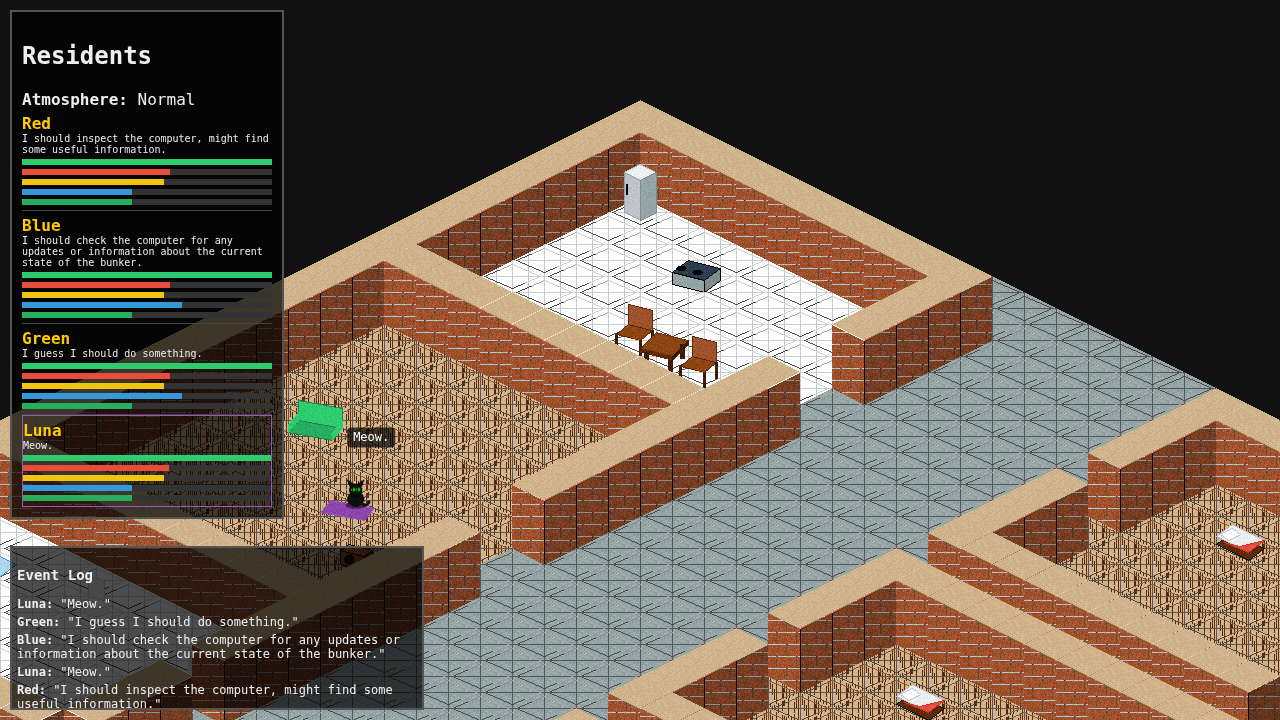
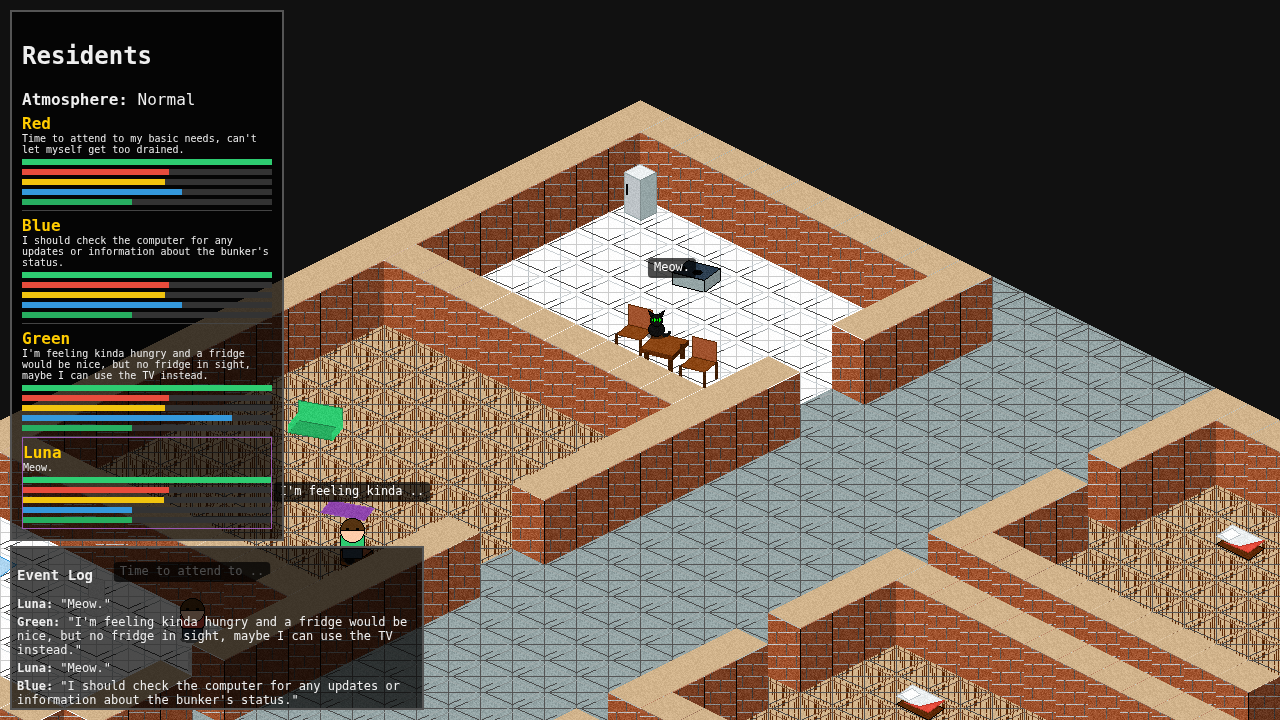
feat: Add Luna (Cat), Doppelganger Anomaly, and Documentation
- Added Luna (Cat) persona with "Meow" encoding constraint (Cerebras Llama 3.3 70b).
- Added Doppelganger anomaly that mimics Luna and causes harm.
- Implemented "Gestating" phase for anomalies (invisible to humans, visible to Luna).
- Added "Atmosphere" mechanics (vibes like Cold Draft, Static).
- Updated `generate_assets.py` to create Cat and Doppelganger assets.
- Updated Resident logic to track Health and react to the Cat/Anomalies.
- Refactored `app.py` for smarter model selection and API key handling.
- Fixed UI: Restored 5 stat bars (Health, Hunger, Energy, Fun, Hygiene), clamped to 100%, set Health to Green.
- Added comprehensive documentation in `docs/` and root `README.md`.

diff --git a/docs/architecture.md b/docs/architecture.md
@@ -1,0 +1,51 @@
+# System Architecture
+
+The **Living Bunker** is a hybrid simulation combining a Python Flask backend for logic/intelligence and a Vanilla JavaScript frontend for visualization.
+
+## High-Level Overview
+
+1.  **The "Brain" (Backend - Python/Flask):**
+    *   **Role:** Handles high-level decision making for agents.
+    *   **LLM Integration:** Connects to Groq (Llama 3.1 8b/70b) and Cerebras (Llama 3.3 70b) APIs.
+    *   **Context Management:** Constructs prompt payloads containing World State, Agent Needs, and Nearby Entities.
+    *   **Endpoints:**
+        *   `/api/decide`: Receives agent state, returns JSON thought/action.
+
+2.  **The "Reflexes" (Frontend - JS/HTML5):**
+    *   **Role:** Handles real-time simulation, pathfinding, movement, and rendering.
+    *   **Game Loop:** Runs at ~60 FPS.
+    *   **State Management:**
+        *   `World`: Stores map data, objects, residents, and anomalies.
+        *   `Resident`: Handles individual stats (Health, Hunger, etc.) and action queues.
+        *   `AnomalyManager`: Spawns and updates anomalies.
+    *   **Assets:** Isometric sprites loaded from `static/assets/`.
+
+## Asset Generation (`generate_assets.py`)
+
+*   **Procedural Generation:** Uses the `Pillow` library to draw pixel-art style assets programmatically.
+*   **Techniques:**
+    *   **Noise Injection:** Adds texture to solid colors.
+    *   **Isometric Projection:** Draws polygons to simulate depth (walls, floor tiles).
+    *   **Composition:** Assembles complex objects (e.g., computers, beds) from primitive shapes.
+
+## Data Flow
+
+1.  **Frontend Tick:**
+    *   Resident decides it needs to think (based on random chance or needs).
+    *   Frontend sends `POST /api/decide` with current context (Nearby objects, visible anomalies, atmosphere).
+2.  **Backend Processing:**
+    *   `app.py` selects the appropriate Persona and LLM Provider.
+    *   Constructs a system prompt (e.g., "You are Luna the cat...") and user prompt.
+    *   Calls LLM API.
+    *   Parses JSON response (`thought`, `action`, `target`).
+3.  **Action Execution:**
+    *   Frontend receives action.
+    *   Resident enters queue (e.g., `MOVE -> INTERACT`).
+    *   State updates (Health decreases, Hunger increases, etc.).
+
+## Key Technologies
+
+*   **Flask:** Lightweight web server.
+*   **Playwright:** Used for automated verification and scenario testing.
+*   **Pathfinding.js:** A* algorithm for grid movement (custom implementation in `pathfinding.js`).
+*   **Canvas API:** Rendering the isometric world.

diff --git a/docs/agents.md b/docs/agents.md
@@ -1,0 +1,51 @@
+# Agents & Personas
+
+The simulation features autonomous agents driven by LLMs. Each has a unique personality, model configuration, and role.
+
+## Residents
+
+### 1. Red (The Survivalist)
+*   **Role:** Paranoid, security-focused, energetic.
+*   **Model:** Groq (`llama-3.1-8b-instant`).
+*   **Behavior:** Reacts strongly to anomalies, maintains high energy, often inspects walls/doors.
+*   **Prompt Key:** "Pay close attention to Luna... if she acts weird, something is wrong."
+
+### 2. Blue (The Scientist)
+*   **Role:** Analytical, calm, obsessed with data.
+*   **Model:** Cerebras (`llama-3.3-70b`).
+*   **Behavior:** Investigates anomalies rather than fleeing. Uses the computer frequently.
+*   **Prompt Key:** "Trust Luna the cat's senses more than your own eyes."
+
+### 3. Green (The Slacker)
+*   **Role:** Relaxed, skeptical, lazy.
+*   **Model:** Cerebras (`llama3.1-8b`).
+*   **Behavior:** Dismisses anomalies as hallucinations. Prioritizes sleep and food.
+
+## Luna (The Cat)
+
+Luna is a unique "Semiotic Alien" agent designed to test the limits of LLM expression and non-verbal communication.
+
+*   **Role:** Sentient observer, anomaly detector.
+*   **Model:** Cerebras (`llama-3.3-70b`).
+*   **Special Ability:** **True Sight**. Luna can see `GESTATING` (invisible) anomalies.
+*   **Constraint: The "Meow" Protocol:**
+    *   Luna **cannot** speak human languages in the `thought` field displayed to UI.
+    *   She must encode complex internal states (fear, curiosity, warning) into variations of "Meow".
+    *   *Examples:*
+        *   `"Meow..."` (Observing unseen threat)
+        *   `"MEOW!"` (Active Danger)
+        *   `"Prrrt?"` (Confusion)
+
+### Human-Cat Interaction
+The simulation relies on a secondary layer of culture forming among the agents:
+*   Humans do not receive direct warnings.
+*   They must observe Luna's behavior (Staring at nothing, Hissing) to deduce the presence of danger.
+*   Over time, agents may develop "superstitions" based on Luna's actions.
+
+## Stats System
+All residents track:
+*   **Health:** Decreased by Doppelgänger attacks. (Green Bar)
+*   **Hunger:** Increases over time. (Red Bar)
+*   **Energy:** Decreases over time. (Yellow Bar)
+*   **Fun:** Decreases over time. (Blue Bar)
+*   **Hygiene:** Decreases over time. (Green Bar)

diff --git a/README.md b/README.md
@@ -1,0 +1,52 @@
+# The Living Bunker: Semiotic Experiment
+
+**Living Bunker** is an autonomous agent simulation exploring the boundaries of AI semiotics, non-verbal communication, and emergent behavior in a confined environment.
+
+It features 3 human residents and **Luna**, a sentient AI cat who communicates solely through "Meow" but perceives layers of reality hidden from the others.
+
+![Bunker Visualization](verification/bunker_visuals.png)
+
+## Key Features
+
+*   **Autonomous Agents:** Powered by **Groq** and **Cerebras** LLMs (Llama 3.1/3.3).
+*   **The "Semiotic Alien":** Luna (The Cat) understands the world perfectly but is constrained to communicate only via "Meow", forcing other agents (and the LLM itself) to encode meaning into rhythm and punctuation.
+*   **Invisible Threats:** Anomalies (Ghosts, Doppelgängers) "gestate" invisibly. Only the cat can see them forming, acting as a living Geiger counter.
+*   **Doppelgänger Mechanic:** A shapeshifting entity that mimics the cat to deceive residents, but is destroyed by the presence of the real cat.
+*   **Procedural Assets:** All graphics are generated programmatically at runtime using Python (`generate_assets.py`).
+
+## Quick Start
+
+1.  **Install:**
+    ```bash
+    pip install -r requirements.txt
+    ```
+2.  **Configure API Keys:**
+    ```bash
+    export GROQ_API_KEY="your_key"
+    export CEREBRAS_API_KEY="your_key"
+    ```
+3.  **Generate Assets:**
+    ```bash
+    python generate_assets.py
+    ```
+4.  **Run:**
+    ```bash
+    python app.py
+    ```
+5.  **View:** Open `http://localhost:5000`.
+
+## Documentation
+
+*   [Setup & Installation](docs/setup.md)
+*   [Architecture Overview](docs/architecture.md)
+*   [Agents & Luna (The Cat)](docs/agents.md)
+*   [Anomalies & Atmosphere](docs/anomalies.md)
+
+## The Experiment
+
+The core question of this project is: *Can an LLM maintain a coherent internal state and strategy when its output channel is aggressively compressed (to just "Meow")?*
+
+Early results show that Luna successfully uses "Staring" and specific vocalizations to alert other agents to invisible threats, creating a rudimentary shared culture where "Cat staring at wall" = "Danger".
+
+## License
+MIT

diff --git a/docs/anomalies.md b/docs/anomalies.md
@@ -1,0 +1,45 @@
+# Anomalies & Atmosphere
+
+The simulation features a dynamic threat system where reality distorts randomly.
+
+## Lifecycle
+
+1.  **GESTATING (Invisible Phase):**
+    *   The anomaly has spawned but is invisible to human residents.
+    *   **Detection:** Only **Luna (The Cat)** can see/sense these.
+    *   **Atmosphere:** The environment may generate precursors like "Cold Draft" or "Heavy Static".
+    *   *Duration:* ~200-500 ticks.
+
+2.  **ACTIVE (Manifested Phase):**
+    *   The anomaly becomes visible.
+    *   It interacts with the world and residents.
+    *   *Duration:* ~500-1000 ticks.
+
+## Anomaly Types
+
+### 1. Ghost
+*   **Sprite:** Semi-transparent, blueish wobbly figure.
+*   **Behavior:** Wanders aimlessly, often melancholy.
+*   **Vibe:** Creates "Cold Spots".
+
+### 2. Glitch
+*   **Sprite:** Static noise block (`glitch.png`).
+*   **Behavior:** Teleports randomly ("glitches"), speaks in code fragments.
+*   **Vibe:** Causes "Static" atmosphere.
+
+### 3. Doppelgänger (The Horror Element)
+*   **Sprite:** Initially mimics **Luna** (`cat_luna.png`).
+*   **Behavior:**
+    *   **Deception:** Acts like a cat to lure humans.
+    *   **Aggression:** Can reveal true form (`cat_evil.png` - Red Eyes).
+    *   **Damage:** Emits psychic damage reducing Resident Health.
+*   **Weakness:** The Real Luna.
+    *   If the Doppelgänger comes within close range of the real Luna, it destabilizes and is destroyed ("SCREEECH! Dissolves upon meeting original").
+    *   This makes Luna not just a pet, but a **Guardian**.
+
+## Atmosphere System
+The world state tracks an global "Atmosphere" variable.
+*   **Normal:** No active threats.
+*   **Cold Draft:** Suggests a Ghost is gestating.
+*   **Heavy Static:** Suggests a Glitch or high anomaly activity.
+*   **Oppressive:** Presence of Doppelgänger.

diff --git a/docs/setup.md b/docs/setup.md
@@ -1,0 +1,55 @@
+# Setup & Installation
+
+## Prerequisites
+
+*   **Python 3.10+**
+*   **API Keys:**
+    *   **Groq API Key**: For fast, efficient inference (Red, Green, Doppelgänger).
+    *   **Cerebras API Key**: For high-speed, high-intelligence inference (Blue, Luna).
+
+## Installation
+
+1.  **Clone the repository:**
+    ```bash
+    git clone <repository_url>
+    cd <repository_name>
+    ```
+
+2.  **Install Dependencies:**
+    ```bash
+    pip install -r requirements.txt
+    ```
+    *Dependencies include `Flask`, `requests`, `Pillow`.*
+
+3.  **Environment Variables:**
+    Set your API keys. You can export them in your shell or create a `.env` file (if you add `python-dotenv`).
+
+    ```bash
+    export GROQ_API_KEY="your_groq_key_here"
+    export CEREBRAS_API_KEY="your_cerebras_key_here"
+    ```
+
+4.  **Generate Assets:**
+    The game uses procedurally generated 16-bit isometric assets. Run the generator script before starting the server.
+
+    ```bash
+    python generate_assets.py
+    ```
+    *This creates `static/assets/` populated with furniture, characters, and anomaly sprites.*
+
+## Running the Simulation
+
+1.  **Start the Server:**
+    ```bash
+    python app.py
+    ```
+
+2.  **Access the Interface:**
+    Open your web browser and navigate to:
+    `http://localhost:5000`
+
+## Troubleshooting
+
+*   **Missing Assets:** If images are broken, ensure `generate_assets.py` ran successfully.
+*   **API Errors:** Check `server.log` or console output. Ensure API keys are valid and you are not rate-limited.
+*   **UI Glitches:** Clear browser cache if asset generation changed sprites significantly.
